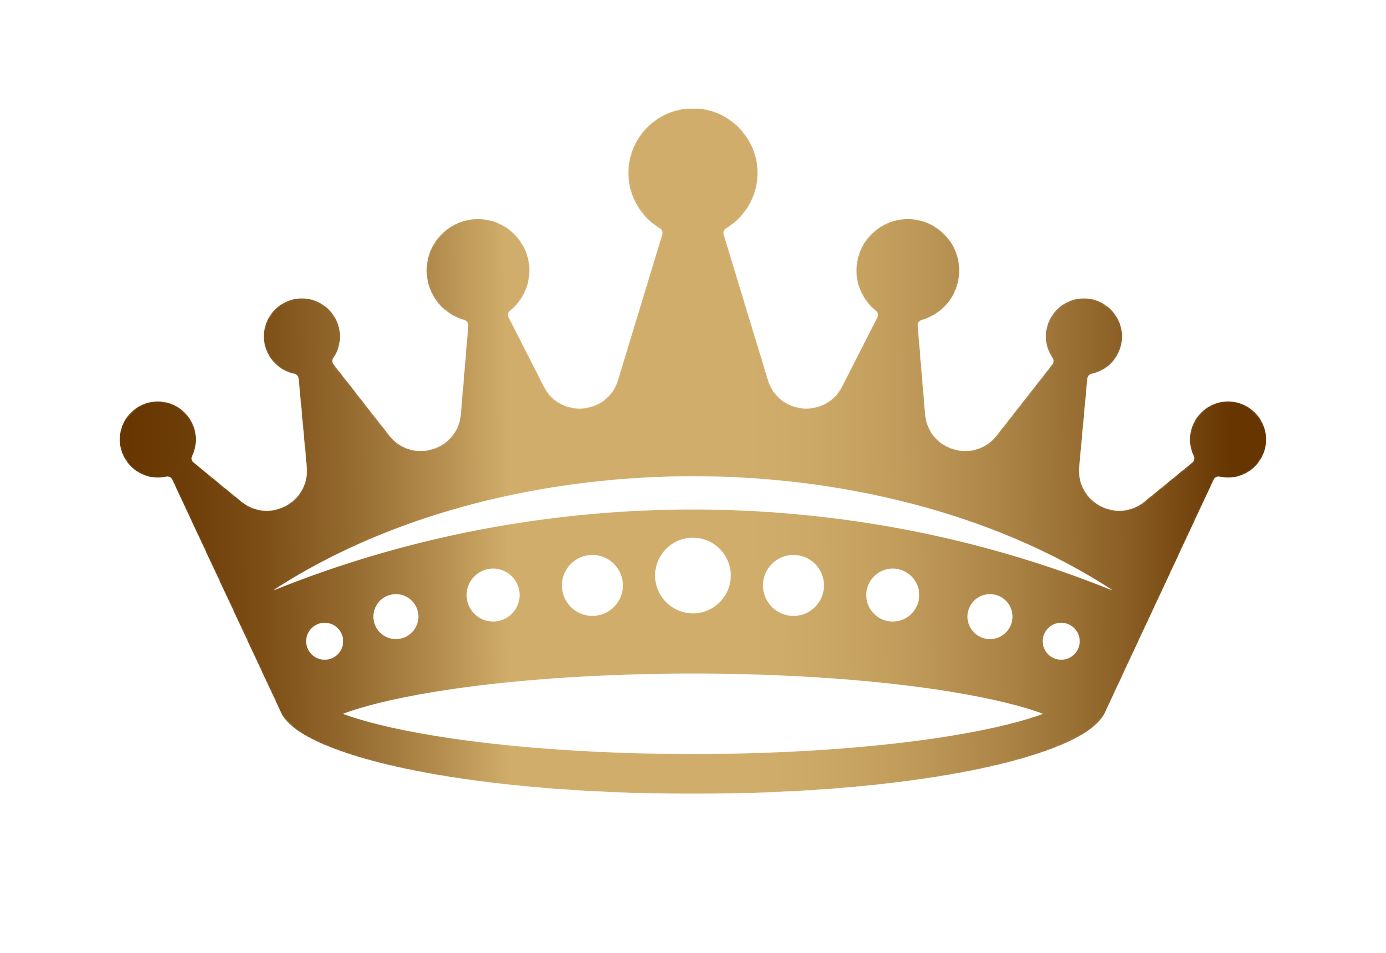
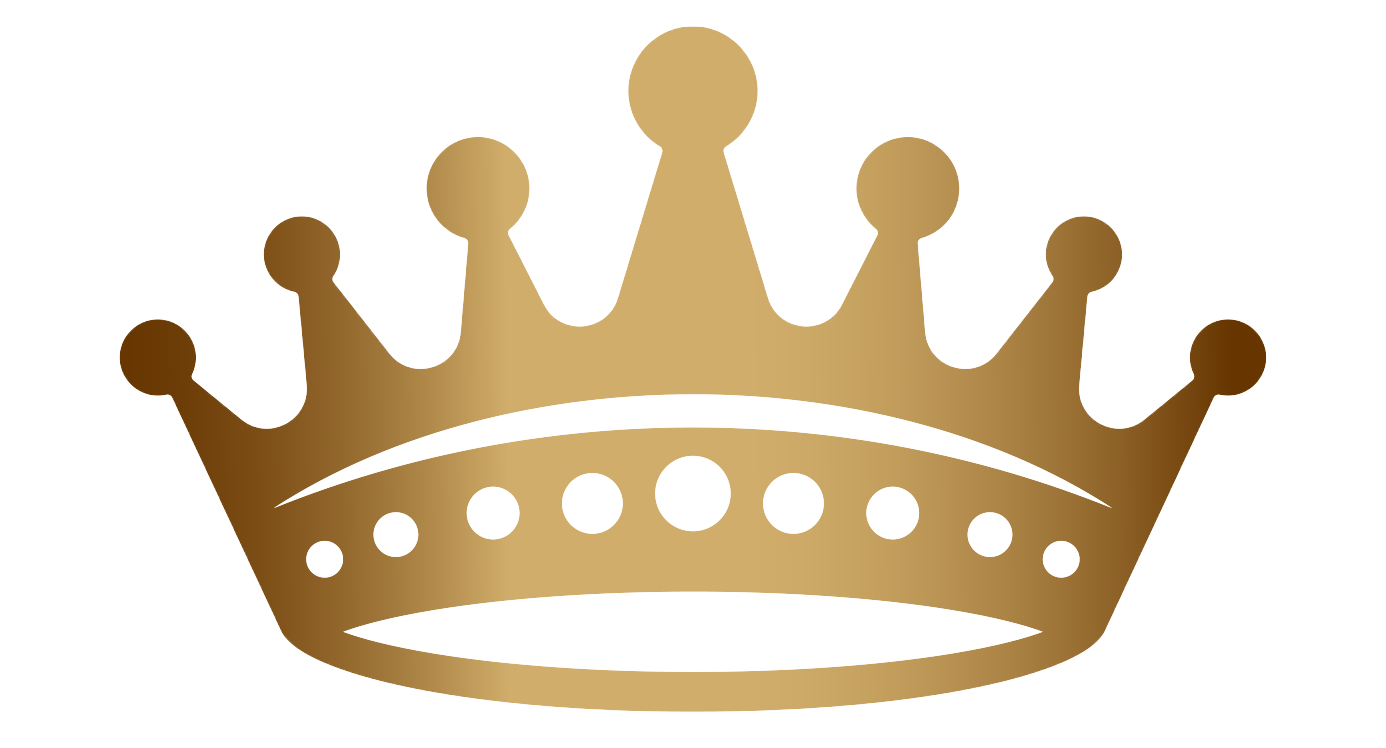
refactor: fix roulette spacings and crown img

diff --git a/app/pages/index.tsx b/app/pages/index.tsx
@@ -13,7 +13,6 @@ import { PublicKey } from '@solana/web3.js'
 import { BetProof } from 'lib/gen/accounts'
 import { message } from 'antd'
 import { data } from 'static/rouletteDataConfig'
-import Image from 'next/image'
 
 const parseResultKind = (kind: string): number => {
 	console.log('kind:', kind)
@@ -169,10 +168,11 @@ export default function Home() {
 					backgroundPosition: 'unset',
 					backgroundSize: 'cover',
 					padding: '15px',
-					background: 'url(images/background4.jpeg)',
+					backgroundImage: 'url(images/background4.jpeg)',
 					backgroundRepeat: 'no-repeat',
 					paddingBottom: '100px',
 					backgroundRepeatY: 'repeat',
+					minHeight: '100vh',
 				}}
 			>
 				<Box

diff --git a/app/components/Roulette/Roulette.tsx b/app/components/Roulette/Roulette.tsx
@@ -37,7 +37,7 @@ export default (props: RouletteProps) => {
 					flexDirection: 'column',
 					alignItems: 'center',
 					justifyContent: 'center',
-					marginBottom: '2rem',
+					marginBottom: '1rem',
 				}}
 			>
 				<Box
@@ -47,13 +47,14 @@ export default (props: RouletteProps) => {
 						},
 					}}
 				>
-					<Image width={346.5} height={238.25} src={'/images/crown.png'} />
+					<Image width={346.5} height={187} src={'/images/crown.png'} />
 				</Box>
 				<Flex
 					sx={{
 						flexDirection: 'column',
 						alignItems: 'center',
 						justifyContent: 'center',
+						margin: '1rem 0',
 
 						'@media screen and (min-width: 768px)': {
 							flexDirection: 'row',
